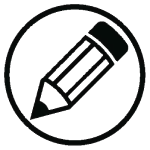
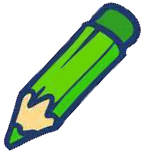
cambio de iconos

diff --git a/estudios.html b/estudios.html
@@ -46,7 +46,7 @@
 
     </header>
     <main>
-        <img onclick="editar()" id="editar" class="editar visible" src="./img/lapiz3.png" alt="" width="30">
+        <img onclick="editar()" id="editar" class="editar visible" src="./img/lapiz.png" alt="" width="30">
         <img onclick="ok()" id="ok" class="ok" src="./img/ok1.png" alt="" width="30">
         <img onclick="cancel()" id="cancel" class="cancel" src="./img/eliminar2.png" alt="" width="30">
         <h1>Estudios</h1>

diff --git a/proyectos.html b/proyectos.html
@@ -46,7 +46,7 @@
     </nav>
   </header>
   <main>
-    <img onclick="editar()" id="editar" class="editar visible" src="./img/lapiz3.png" alt="" width="30">
+    <img onclick="editar()" id="editar" class="editar visible" src="./img/lapiz.png" alt="" width="30">
     <img onclick="ok()" id="ok" class="ok" src="./img/ok1.png" alt="" width="30">
     <img onclick="cancel()" id="cancel" class="cancel" src="./img/eliminar2.png" alt="" width="30">
     <h1>Proyectos</h1>

diff --git a/habilidades.html b/habilidades.html
@@ -46,7 +46,7 @@
 
   </header>
   <main>
-    <img onclick="editar()" id="editar" class="editar visible" src="./img/lapiz3.png" alt="" width="30">
+    <img onclick="editar()" id="editar" class="editar visible" src="./img/lapiz.png" alt="" width="30">
     <img onclick="ok()" id="ok" class="ok" src="./img/ok1.png" alt="" width="30">
     <img onclick="cancel()" id="cancel" class="cancel" src="./img/eliminar2.png" alt="" width="30">
     <h1>Habilidades</h1>

diff --git a/index.html b/index.html
@@ -45,7 +45,7 @@
     </nav>
   </header>
   <main>
-    <img onclick="editar()" id="editar" class="editar" src="./img/lapiz.png" alt="" width="30">
+    <img onclick="editar()" id="editar" class="editar visible" src="./img/lapiz.png" alt="" width="30">
     <h1 class="text-center">Juan Pablo Favale</h1>
     <img class="profile-img" src="./img/Perfil1.jpg" alt="foto de perfil">
     <h2 class="titulo">Acerca de</h2>
